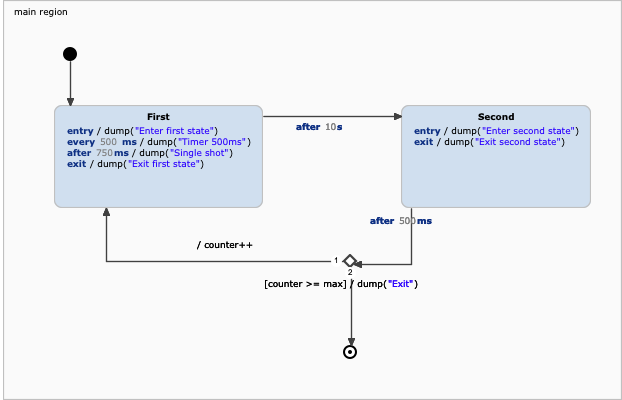
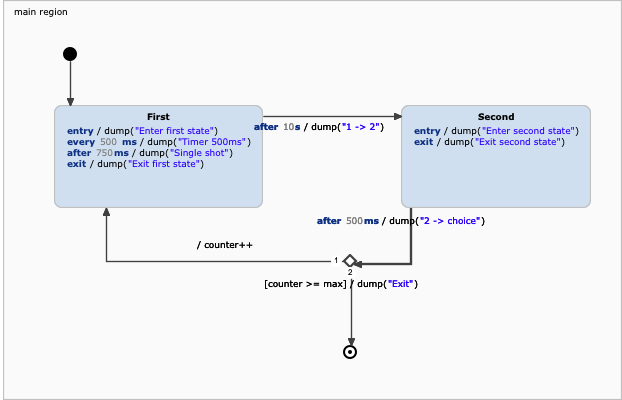
More timer dumping.

Changed region(s): [[0.4887, 0.54, 0.7942, 0.66], [0.3971, 0.3, 0.6109, 0.33]]

diff --git a/SctCppTimer/src-gen/AbstractTimerStatechart.cpp b/SctCppTimer/src-gen/AbstractTimerStatechart.cpp
@@ -71,7 +71,7 @@ void AbstractTimerStatechart::dispatch_event(SctEvent * event)
 		default:
 			break;
 	}
-//	delete event;
+	delete event;
 }
 
 void AbstractTimerStatechart::iface_dispatch_event(SctEvent * event)
@@ -351,6 +351,7 @@ sc_integer AbstractTimerStatechart::main_region_First_react(const sc_integer tra
 		if (timeEvents[0])
 		{ 
 			exseq_main_region_First();
+			ifaceOperationCallback->dump((sc_string) "1 -> 2");
 			enseq_main_region_Second_default();
 			react(0);
 			transitioned_after = 0;
@@ -380,6 +381,7 @@ sc_integer AbstractTimerStatechart::main_region_Second_react(const sc_integer tr
 		if (timeEvents[3])
 		{ 
 			exseq_main_region_Second();
+			ifaceOperationCallback->dump((sc_string) "2 -> choice");
 			react_main_region__choice_0();
 			transitioned_after = 0;
 		} 

diff --git a/SctCppTimer/main.cpp b/SctCppTimer/main.cpp
@@ -38,6 +38,7 @@ int main(int argc, const char * argv[])
     a.stop();
     b.stop();
 
+	sleep(42);
 	statechart.exit();
     return 0;
 }
